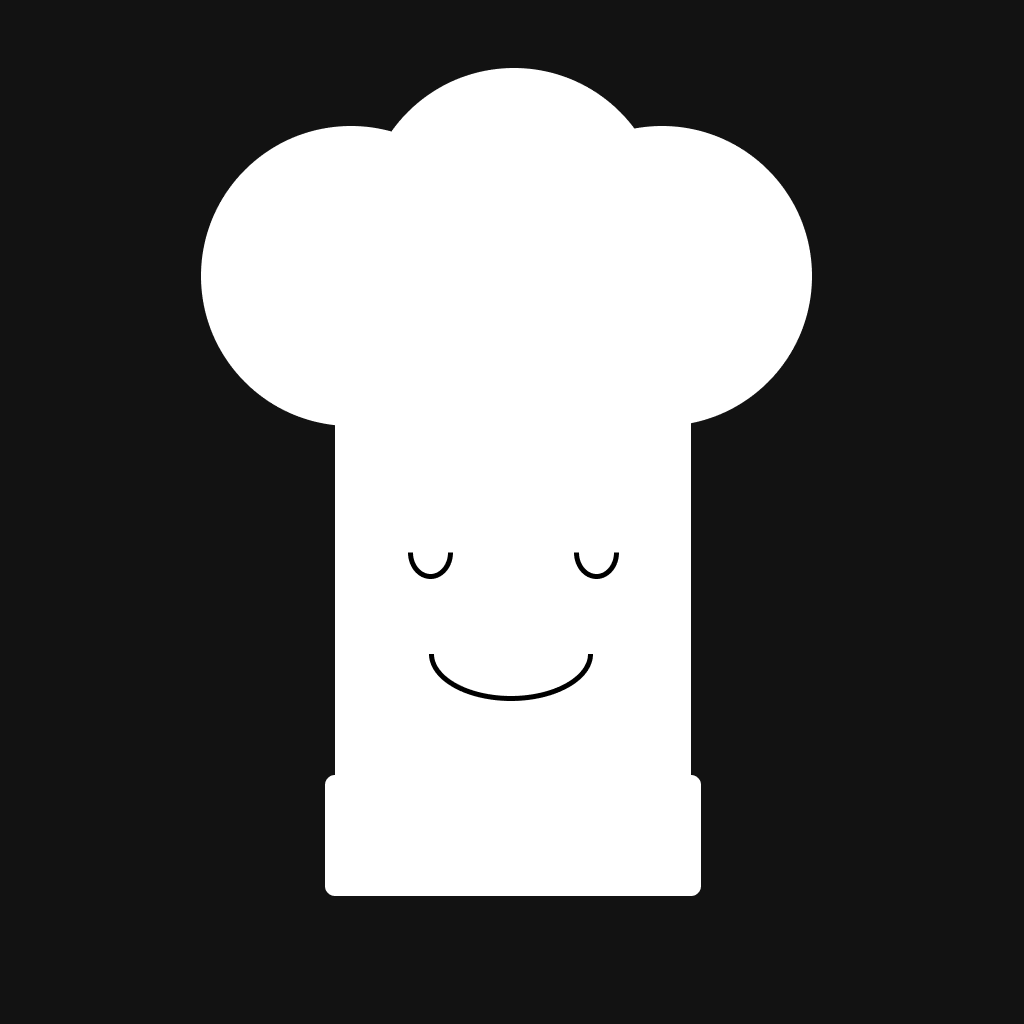
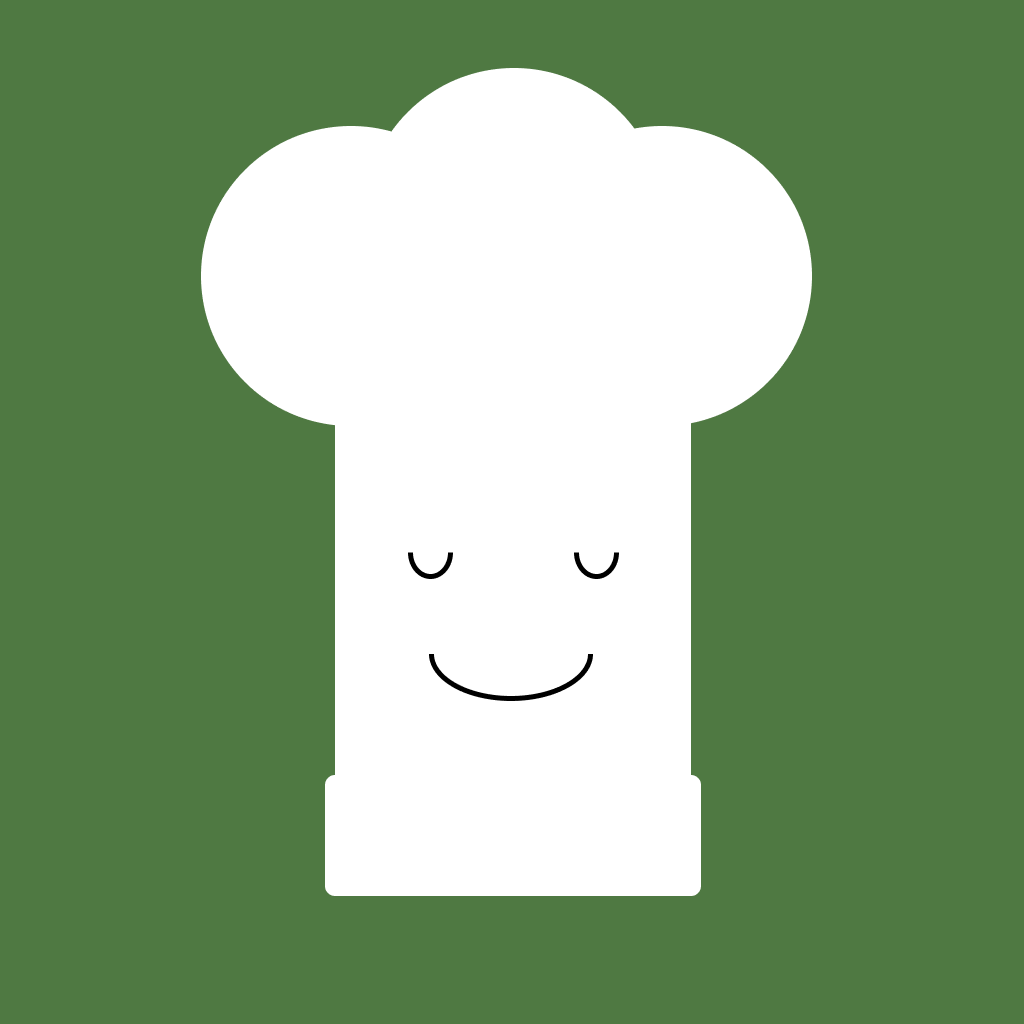
Edit and delete functions added, changed background color for Splash

diff --git a/app/detailedView.tsx b/app/detailedView.tsx
@@ -1,18 +1,19 @@
 import { View, Text, TextInput, StyleSheet, Image, Pressable } from 'react-native'
 import { useState, useEffect, useContext } from 'react'
-import { useNavigation, useLocalSearchParams } from 'expo-router'
+import { useNavigation, useLocalSearchParams, useRouter } from 'expo-router'
 import { NewEditShow } from '@/components/NewEditShow'
 import Header from '@/components/Header'
 import { SignOutButton } from '@/components/SignOutButton'
 import { DBContext } from '@/context/DBcontext'
 import { AuthContext } from '@/context/authContext'
-import { doc, getDoc } from 'firebase/firestore'
+import { doc, getDoc, deleteDoc, setDoc, collection, documentId } from 'firebase/firestore'
 
 export default function detailedView(props: any) {
 
     const [recipeName, setRecipeName] = useState('')
     const [ingredients, setIngredients] = useState('')
     const [steps, setSteps] = useState('')
+    const router = useRouter()
     const navigation = useNavigation()
     const params = useLocalSearchParams()
     const db = useContext(DBContext)
@@ -46,9 +47,28 @@ export default function detailedView(props: any) {
 
 
     }
+
+    const deleteDocument = async ( documentId: string ) => {
+        const docRef = doc(db, `user/${auth.currentUser.uid}/recipes`, documentId)
+        const delDoc = await deleteDoc( docRef )
+        navigation.goBack()
+    }
+
+    const addRecipe = async (recipeName: string, ingredients: string, steps: string) =>{
+        console.log("add")
+        const data ={
+            recipeName: recipeName,
+            ingredients: ingredients,
+            steps: steps,
+        }
+        const docRef = doc(db,`user/${ auth.currentUser.uid}/recipes`,id as string)
+        await setDoc( docRef,data, {merge:true})
+        console.log(docRef.id)
+        console.log(data)
+        router.replace('/home')
+    }
     return (
         <View style={styles.container}>
-            <Text>Details for {id}</Text>
             <NewEditShow
                 recipeName={recipeName}
                 setRecipeName={setRecipeName}
@@ -56,8 +76,13 @@ export default function detailedView(props: any) {
                 setIngredients={setIngredients}
                 steps={steps}
                 setSteps={setSteps}>
-
             </NewEditShow>
+            <View>
+            <Pressable style={styles.deleteButton} onPress={()=> deleteDocument(id as string)}>
+                <Text>Delete</Text>
+            </Pressable>
+            <Pressable style = {styles.addButton}  onPress={ () => addRecipe(recipeName,ingredients,steps)}>Edit</Pressable>
+            </View>
         </View>
 
 
@@ -70,6 +95,34 @@ const styles = StyleSheet.create({
         flex: 1,
         padding: 20,
         backgroundColor: "#9DC183",
+    },
+    deleteButton:{
+        justifyContent: "center",
+        alignItems: "center",
+        position: "absolute",
+        bottom: 10,
+        left: 10,
+        backgroundColor: "#4F7942",
+        padding: 15,
+        borderBottomColor: "#4b5320",
+        borderBottomWidth: 3,
+        borderRadius: 40,
+        width: 75,
+        height: 75,
+    },
+    addButton: {
+        justifyContent: "center",
+        alignItems: "center",
+        position: "absolute",
+        bottom: 10,
+        right: 10,
+        backgroundColor: "#4F7942",
+        padding: 15,
+        borderBottomColor: "#4b5320",
+        borderBottomWidth: 3,
+        borderRadius: 40,
+        width: 75,
+        height: 75,
     },
 
 })

diff --git a/README.md b/README.md
@@ -24,3 +24,9 @@ Header customized
 
 Submission 9
 Ui changes, detailed view for each document that fetches data in document
+
+Submission 10
+Documents can be deleted and edited
+
+TODO
+Add pictures will be the next step, I focused on CRUD when it came to text
